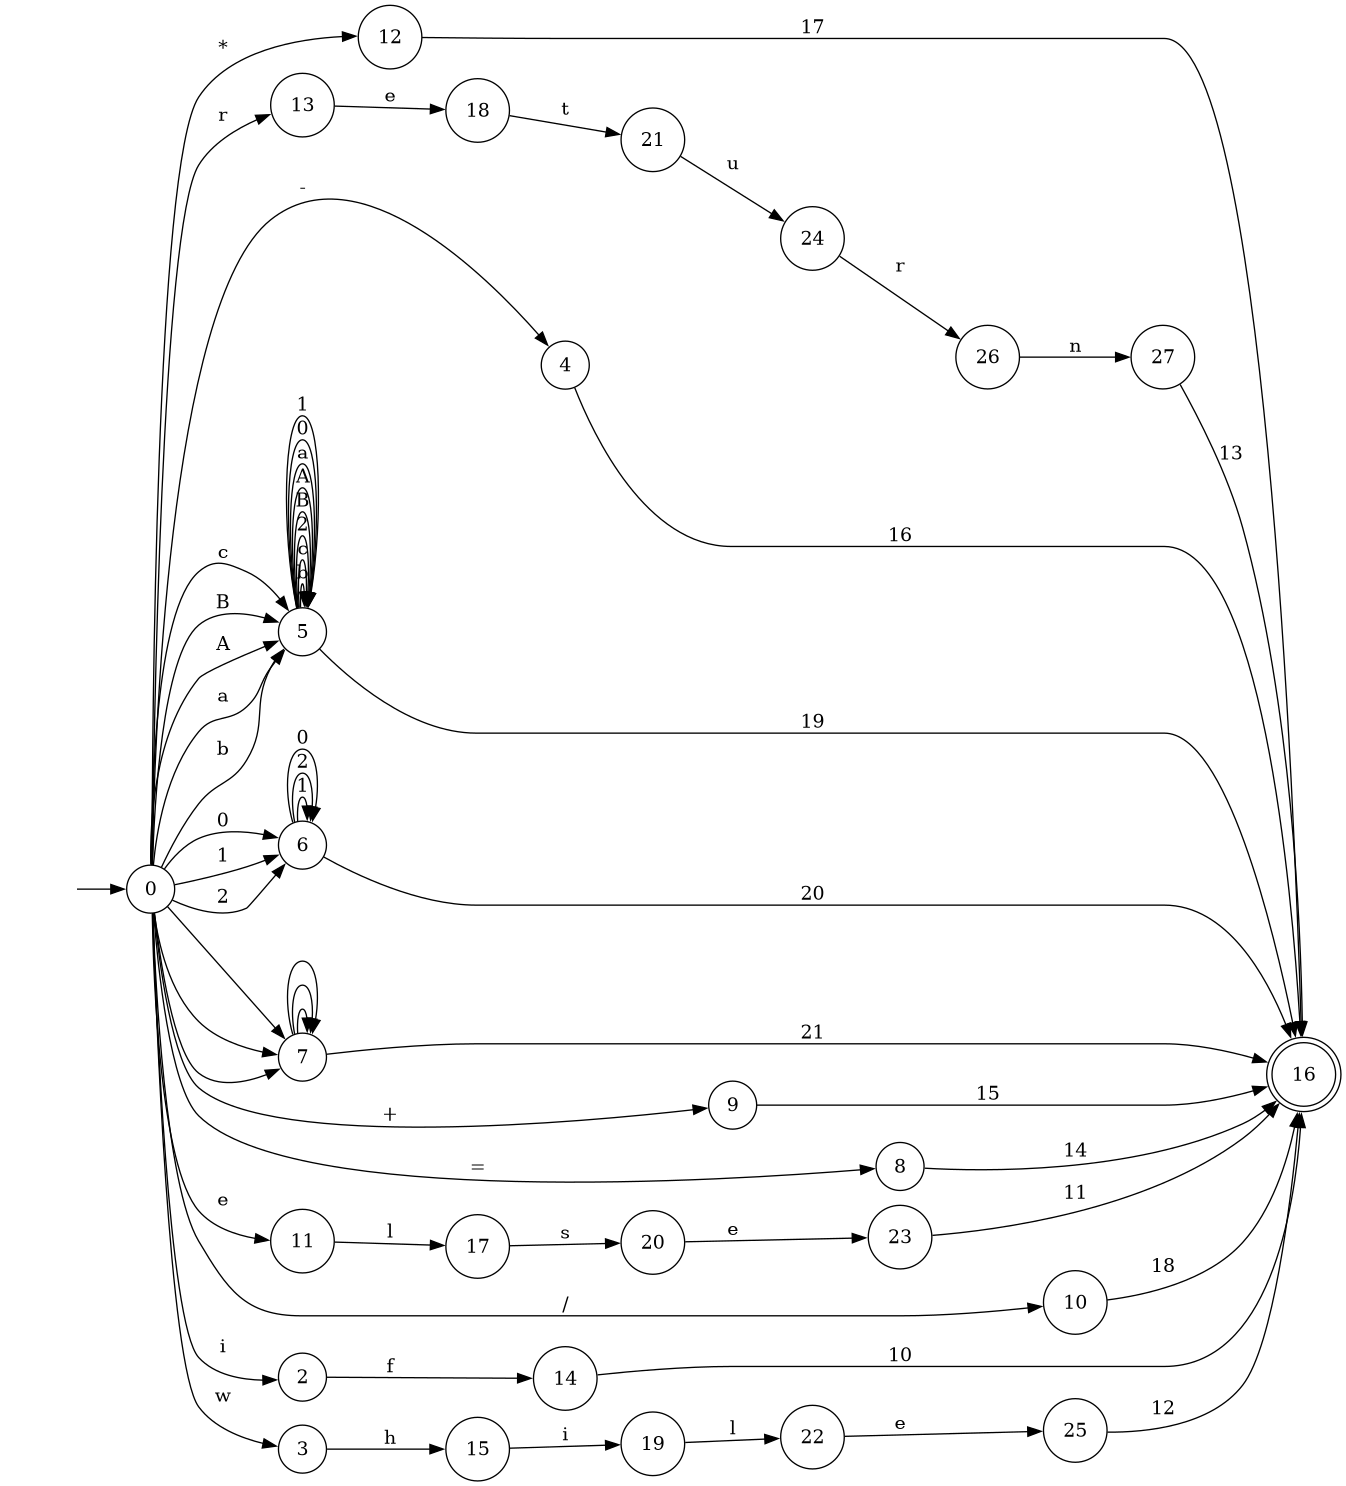
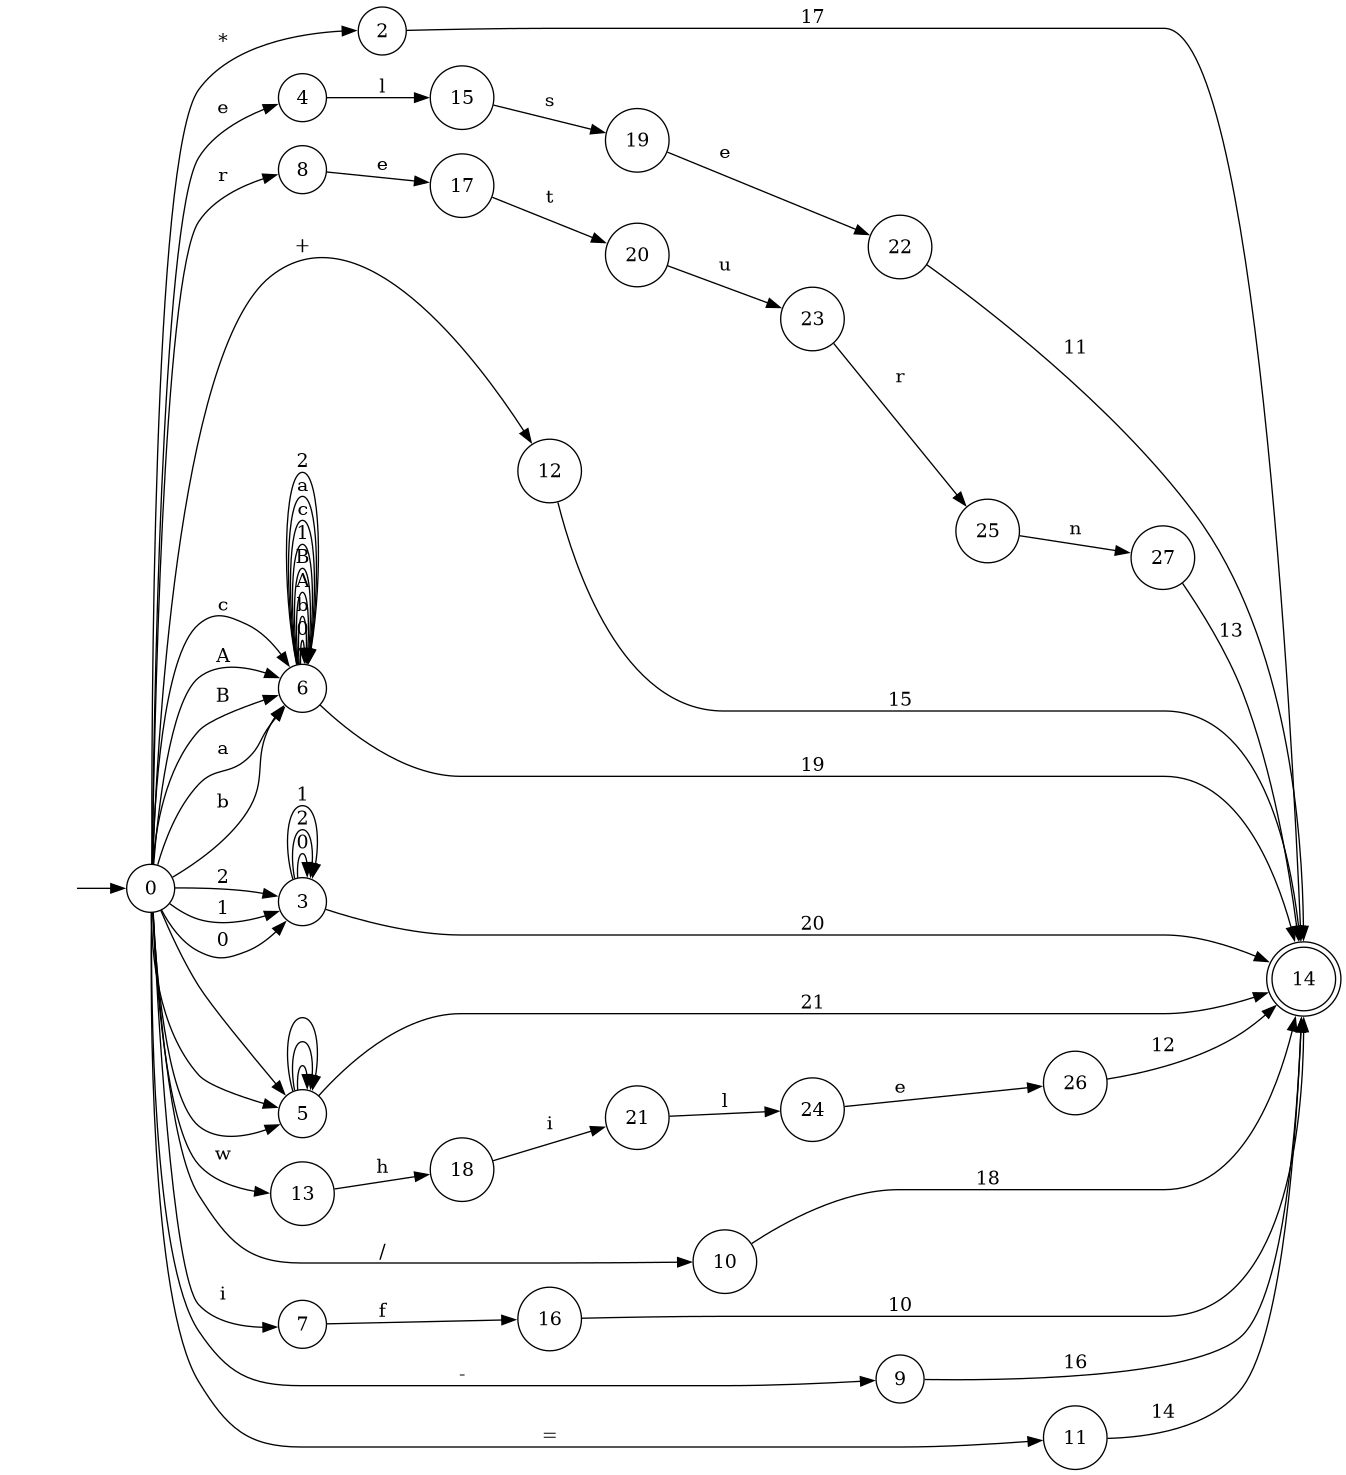
Fixed: Sorting slice out of bounds problem

diff --git a/cmd/Lexer/lexer.go b/cmd/Lexer/lexer.go
@@ -266,64 +266,283 @@ type action func() int
 
 // createDFA constructs the DFA that recognizes the user language.
 func createDFA() *dfa {
-	state0 := &state{id: "0" , 
+	state2 := &state{id: "2" , 
 actions: []action{ 
+ func() int { return MULT 
+return SKIP_LEXEME } , 
 }, transitions: make(map[Symbol]*state), isFinal: false}
-state2 := &state{id: "2" , 
+state4 := &state{id: "4" , transitions: make(map[Symbol]*state), isFinal: false}
+state8 := &state{id: "8" , transitions: make(map[Symbol]*state), isFinal: false}
+state12 := &state{id: "12" , 
+actions: []action{ 
+ func() int { return MULT 
+return SKIP_LEXEME } , 
+ func() int { return PLUS 
+return SKIP_LEXEME } , 
+}, transitions: make(map[Symbol]*state), isFinal: false}
+state14 := &state{id: "14" , transitions: make(map[Symbol]*state), isFinal: true}
+state17 := &state{id: "17" , transitions: make(map[Symbol]*state), isFinal: false}
+state18 := &state{id: "18" , transitions: make(map[Symbol]*state), isFinal: false}
+state23 := &state{id: "23" , transitions: make(map[Symbol]*state), isFinal: false}
+state0 := &state{id: "0" , 
+actions: []action{ 
+ func() int { return MULT 
+return SKIP_LEXEME } , 
+ func() int { return PLUS 
+return SKIP_LEXEME } , 
+}, transitions: make(map[Symbol]*state), isFinal: false}
+state7 := &state{id: "7" , transitions: make(map[Symbol]*state), isFinal: false}
+state11 := &state{id: "11" , 
+actions: []action{ 
+ func() int { return ASSIGN 
+return SKIP_LEXEME } , 
+ func() int { return MULT 
+return SKIP_LEXEME } , 
+ func() int { return PLUS 
+return SKIP_LEXEME } , 
+}, transitions: make(map[Symbol]*state), isFinal: false}
+state15 := &state{id: "15" , transitions: make(map[Symbol]*state), isFinal: false}
+state16 := &state{id: "16" , 
+actions: []action{ 
+ func() int { return IF 
+return SKIP_LEXEME } , 
+ func() int { return ASSIGN 
+return SKIP_LEXEME } , 
+ func() int { return MULT 
+return SKIP_LEXEME } , 
+ func() int { return PLUS 
+return SKIP_LEXEME } , 
+}, transitions: make(map[Symbol]*state), isFinal: false}
+state20 := &state{id: "20" , transitions: make(map[Symbol]*state), isFinal: false}
+state24 := &state{id: "24" , transitions: make(map[Symbol]*state), isFinal: false}
+state25 := &state{id: "25" , transitions: make(map[Symbol]*state), isFinal: false}
+state5 := &state{id: "5" , 
+actions: []action{ 
+ func() int { return IF 
+return SKIP_LEXEME } , 
+ func() int { return ASSIGN 
+return SKIP_LEXEME } , 
+ func() int {
+return SKIP_LEXEME } , 
+ func() int { return MULT 
+return SKIP_LEXEME } , 
+ func() int { return PLUS 
+return SKIP_LEXEME } , 
+}, transitions: make(map[Symbol]*state), isFinal: false}
+state6 := &state{id: "6" , 
 actions: []action{ 
  func() int { return ID 
+return SKIP_LEXEME } , 
+ func() int { return IF 
+return SKIP_LEXEME } , 
+ func() int { return ASSIGN 
+return SKIP_LEXEME } , 
+ func() int {
+return SKIP_LEXEME } , 
+ func() int { return MULT 
+return SKIP_LEXEME } , 
+ func() int { return PLUS 
+return SKIP_LEXEME } , 
+}, transitions: make(map[Symbol]*state), isFinal: false}
+state9 := &state{id: "9" , 
+actions: []action{ 
+ func() int { return MINUS 
+return SKIP_LEXEME } , 
+ func() int { return ID 
+return SKIP_LEXEME } , 
+ func() int { return IF 
+return SKIP_LEXEME } , 
+ func() int { return ASSIGN 
+return SKIP_LEXEME } , 
+ func() int {
+return SKIP_LEXEME } , 
+ func() int { return MULT 
+return SKIP_LEXEME } , 
+ func() int { return PLUS 
+return SKIP_LEXEME } , 
+}, transitions: make(map[Symbol]*state), isFinal: false}
+state13 := &state{id: "13" , transitions: make(map[Symbol]*state), isFinal: false}
+state22 := &state{id: "22" , 
+actions: []action{ 
+ func() int { return ELSE 
+return SKIP_LEXEME } , 
+ func() int { return MINUS 
+return SKIP_LEXEME } , 
+ func() int { return ID 
+return SKIP_LEXEME } , 
+ func() int { return IF 
+return SKIP_LEXEME } , 
+ func() int { return ASSIGN 
+return SKIP_LEXEME } , 
+ func() int {
+return SKIP_LEXEME } , 
+ func() int { return MULT 
+return SKIP_LEXEME } , 
+ func() int { return PLUS 
+return SKIP_LEXEME } , 
+}, transitions: make(map[Symbol]*state), isFinal: false}
+state27 := &state{id: "27" , 
+actions: []action{ 
+ func() int { return ELSE 
+return SKIP_LEXEME } , 
+ func() int { return RETURN 
+return SKIP_LEXEME } , 
+ func() int { return MINUS 
+return SKIP_LEXEME } , 
+ func() int { return ID 
+return SKIP_LEXEME } , 
+ func() int { return IF 
+return SKIP_LEXEME } , 
+ func() int { return ASSIGN 
+return SKIP_LEXEME } , 
+ func() int {
+return SKIP_LEXEME } , 
+ func() int { return MULT 
+return SKIP_LEXEME } , 
+ func() int { return PLUS 
 return SKIP_LEXEME } , 
 }, transitions: make(map[Symbol]*state), isFinal: false}
 state3 := &state{id: "3" , 
 actions: []action{ 
+ func() int { return ELSE 
+return SKIP_LEXEME } , 
+ func() int { return RETURN 
+return SKIP_LEXEME } , 
  func() int { return NUMBER 
+return SKIP_LEXEME } , 
+ func() int { return MINUS 
 return SKIP_LEXEME } , 
  func() int { return ID 
 return SKIP_LEXEME } , 
-}, transitions: make(map[Symbol]*state), isFinal: false}
-state4 := &state{id: "4" , 
-actions: []action{ 
+ func() int { return IF 
+return SKIP_LEXEME } , 
+ func() int { return ASSIGN 
+return SKIP_LEXEME } , 
  func() int {
 return SKIP_LEXEME } , 
+ func() int { return MULT 
+return SKIP_LEXEME } , 
+ func() int { return PLUS 
+return SKIP_LEXEME } , 
+}, transitions: make(map[Symbol]*state), isFinal: false}
+state10 := &state{id: "10" , 
+actions: []action{ 
+ func() int { return ELSE 
+return SKIP_LEXEME } , 
+ func() int { return RETURN 
+return SKIP_LEXEME } , 
+ func() int { return DIV 
+return SKIP_LEXEME } , 
  func() int { return NUMBER 
+return SKIP_LEXEME } , 
+ func() int { return MINUS 
 return SKIP_LEXEME } , 
  func() int { return ID 
 return SKIP_LEXEME } , 
+ func() int { return IF 
+return SKIP_LEXEME } , 
+ func() int { return ASSIGN 
+return SKIP_LEXEME } , 
+ func() int {
+return SKIP_LEXEME } , 
+ func() int { return MULT 
+return SKIP_LEXEME } , 
+ func() int { return PLUS 
+return SKIP_LEXEME } , 
 }, transitions: make(map[Symbol]*state), isFinal: false}
-state5 := &state{id: "5" , transitions: make(map[Symbol]*state), isFinal: true}
+state19 := &state{id: "19" , transitions: make(map[Symbol]*state), isFinal: false}
+state21 := &state{id: "21" , transitions: make(map[Symbol]*state), isFinal: false}
+state26 := &state{id: "26" , 
+actions: []action{ 
+ func() int { return WHILE 
+return SKIP_LEXEME } , 
+ func() int { return ELSE 
+return SKIP_LEXEME } , 
+ func() int { return RETURN 
+return SKIP_LEXEME } , 
+ func() int { return DIV 
+return SKIP_LEXEME } , 
+ func() int { return NUMBER 
+return SKIP_LEXEME } , 
+ func() int { return MINUS 
+return SKIP_LEXEME } , 
+ func() int { return ID 
+return SKIP_LEXEME } , 
+ func() int { return IF 
+return SKIP_LEXEME } , 
+ func() int { return ASSIGN 
+return SKIP_LEXEME } , 
+ func() int {
+return SKIP_LEXEME } , 
+ func() int { return MULT 
+return SKIP_LEXEME } , 
+ func() int { return PLUS 
+return SKIP_LEXEME } , 
+}, transitions: make(map[Symbol]*state), isFinal: false}
 
-state0.transitions["1"] = state3
-state0.transitions["	"] = state4
-state0.transitions["B"] = state2
-state0.transitions["a"] = state2
-state0.transitions["b"] = state2
-state0.transitions["A"] = state2
-state0.transitions["0"] = state3
+state2.transitions["17"] = state14
+state4.transitions["l"] = state15
+state8.transitions["e"] = state17
+state12.transitions["15"] = state14
+state17.transitions["t"] = state20
+state18.transitions["i"] = state21
+state23.transitions["r"] = state25
+state0.transitions["c"] = state6
+state0.transitions["A"] = state6
+state0.transitions["r"] = state8
 state0.transitions["2"] = state3
-state0.transitions["\n"] = state4
-state0.transitions[" "] = state4
-state0.transitions["c"] = state2
-state2.transitions["B"] = state2
-state2.transitions["a"] = state2
-state2.transitions["b"] = state2
-state2.transitions["10"] = state5
-state2.transitions["c"] = state2
-state2.transitions["0"] = state2
-state2.transitions["1"] = state2
-state2.transitions["A"] = state2
-state2.transitions["2"] = state2
-state3.transitions["11"] = state5
-state3.transitions["0"] = state3
+state0.transitions[" "] = state5
+state0.transitions["w"] = state13
+state0.transitions["*"] = state2
+state0.transitions["B"] = state6
+state0.transitions["a"] = state6
+state0.transitions["/"] = state10
+state0.transitions["+"] = state12
+state0.transitions["\n"] = state5
+state0.transitions["b"] = state6
+state0.transitions["1"] = state3
+state0.transitions["e"] = state4
+state0.transitions["i"] = state7
+state0.transitions["0"] = state3
+state0.transitions["-"] = state9
+state0.transitions["	"] = state5
+state0.transitions["="] = state11
+state7.transitions["f"] = state16
+state11.transitions["14"] = state14
+state15.transitions["s"] = state19
+state16.transitions["10"] = state14
+state20.transitions["u"] = state23
+state24.transitions["e"] = state26
+state25.transitions["n"] = state27
+state5.transitions["21"] = state14
+state5.transitions["\n"] = state5
+state5.transitions["	"] = state5
+state5.transitions[" "] = state5
+state6.transitions["0"] = state6
+state6.transitions["b"] = state6
+state6.transitions["A"] = state6
+state6.transitions["19"] = state14
+state6.transitions["B"] = state6
+state6.transitions["1"] = state6
+state6.transitions["c"] = state6
+state6.transitions["a"] = state6
+state6.transitions["2"] = state6
+state9.transitions["16"] = state14
+state13.transitions["h"] = state18
+state22.transitions["11"] = state14
+state27.transitions["13"] = state14
+state3.transitions["20"] = state14
 state3.transitions["1"] = state3
+state3.transitions["0"] = state3
 state3.transitions["2"] = state3
-state4.transitions["\n"] = state4
-state4.transitions[" "] = state4
-state4.transitions["12"] = state5
-state4.transitions["	"] = state4
+state10.transitions["18"] = state14
+state19.transitions["e"] = state22
+state21.transitions["l"] = state24
+state26.transitions["12"] = state14
 
 return &dfa{ 
 startState: state0,
-states: []*state{ state0, state2, state3, state4, state5, }, 
+states: []*state{ state0, state2, state3, state4, state5, state6, state7, state8, state9, state10, state11, state12, state13, state14, state15, state16, state17, state18, state19, state20, state21, state22, state23, state24, state25, state26, state27, }, 
 }
 }
 

diff --git a/internal/Generator/LexWriter/Lexwrite.go b/internal/Generator/LexWriter/Lexwrite.go
@@ -31,9 +31,13 @@ func CreateLexTemplateComponentes(yal *yalexDef.YALexDefinition, adf *dfa.DFA) L
 
 			fmt.Println(adf.States[i].Actions)
 
-			for e := range len(adf.States[i].Actions) {
-				slice = append(slice[:adf.States[i].Actions[e].Priority],
-					append([]dfa.Action{adf.States[i].Actions[e]}, slice[adf.States[i].Actions[e].Priority:]...)...)
+			for _, action := range adf.States[i].Actions {
+				index := action.Priority
+				if index > len(slice) {
+					index = len(slice)
+				}
+
+				slice = append(slice[:index], append([]dfa.Action{action}, slice[index:]...)...)
 			}
 
 			//Adds the initial action
